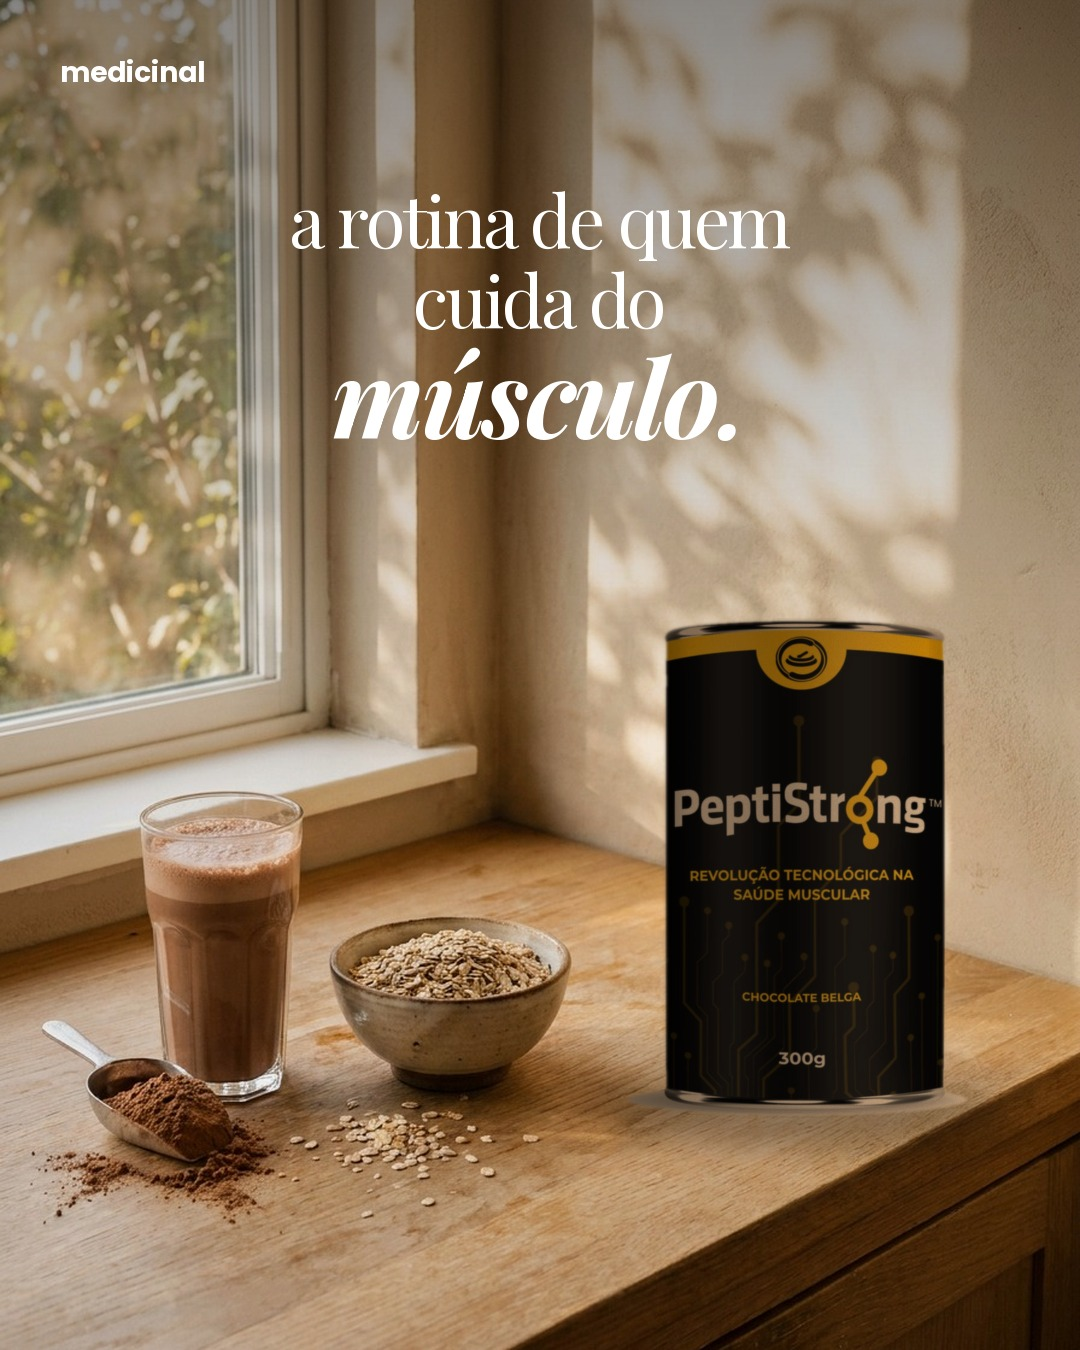
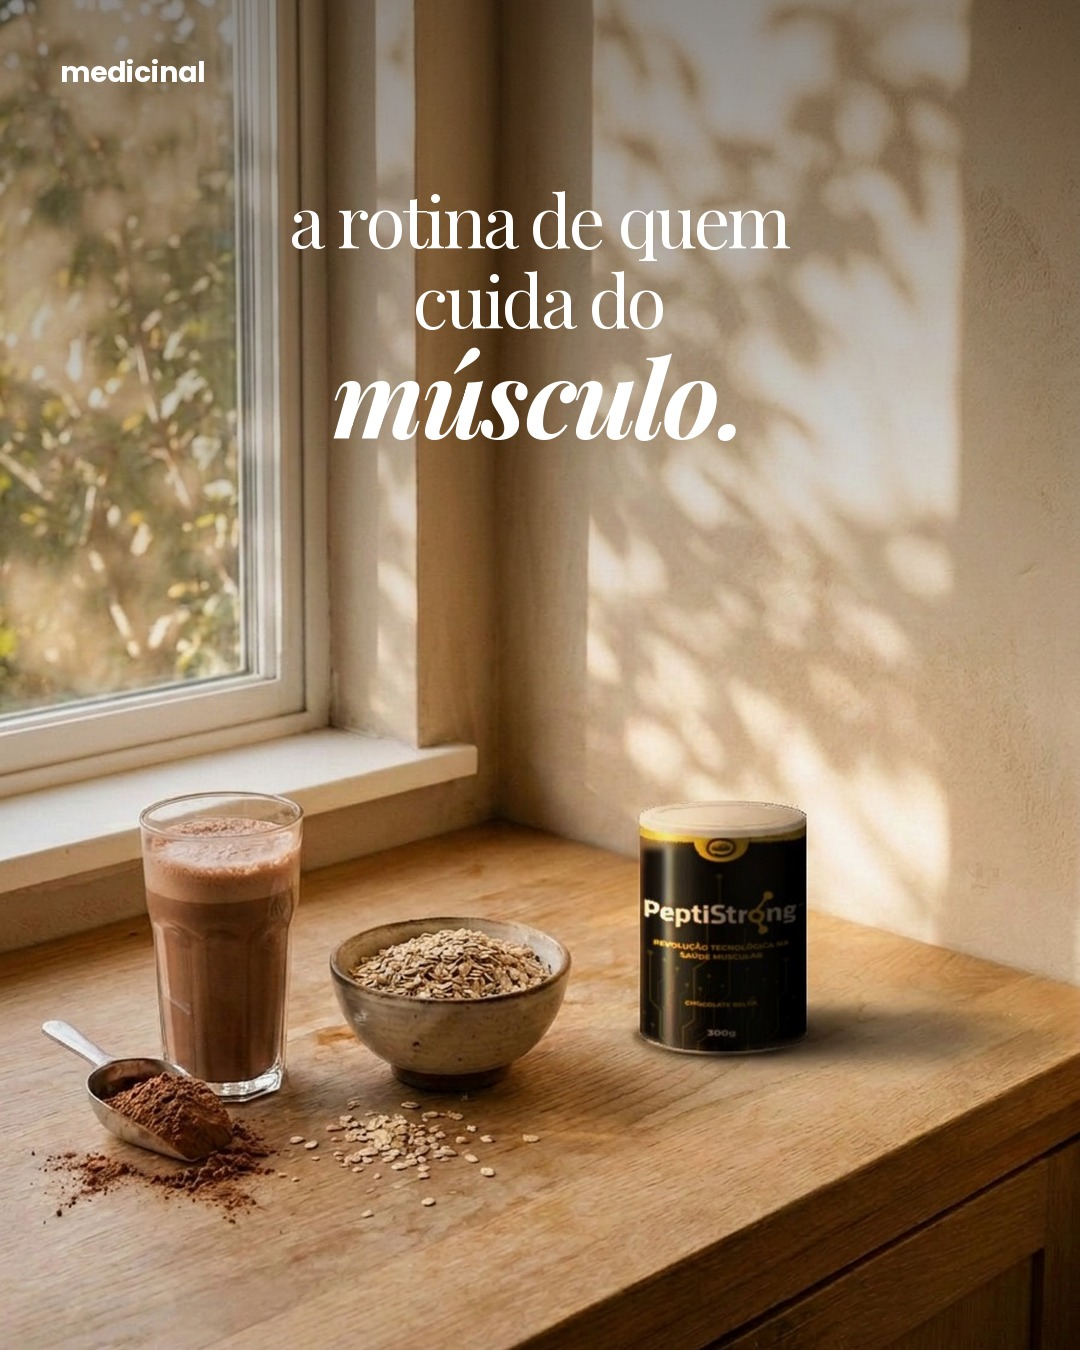
Inserção de produto natural: proporção real, harmonização por IA e rótulo original; linha editorial provocativa
Claude-Session: https://claude.ai/code/session_01Bm6rABw341qEUcQn2o9EUx

diff --git a/grade/insere_produto.py b/grade/insere_produto.py
@@ -1,0 +1,116 @@
+"""Insere a foto real de um produto (fundo branco) numa cena, com cuidado de naturalidade.
+
+Regra do padrão (docs/09-padrao-visual.md, seção 12): escala coerente com objetos vizinhos,
+perspectiva da câmera da cena (tampa e base em elipse), luz da cena sobre o produto
+(direção, cor e manchas de luz), sombra de contato e sombra projetada, mesma nitidez e grão.
+"""
+from PIL import Image, ImageDraw, ImageFilter, ImageEnhance, ImageChops
+import math
+
+def recorta(path, escuro=110):
+    """Recorta só o corpo do produto (tira fundo, sombra de chão e aros do mockup)."""
+    p = Image.open(path).convert('RGB'); g = p.convert('L'); W, H = g.size
+    px = g.load()
+    cols = [x for x in range(W) if sum(1 for y in range(0, H, 4) if px[x, y] < escuro) > (H / 4) * 0.35]
+    x0, x1 = min(cols), max(cols)
+    rows = [y for y in range(H) if sum(1 for x in range(x0, x1, 3) if px[x, y] < escuro) > ((x1 - x0) / 3) * 0.55]
+    y0, y1 = min(rows), max(rows)
+    # inclui a faixa colorida do topo (não é escura): sobe até encontrar o aro claro
+    while y0 > 0 and sum(1 for x in range(x0, x1, 3) if px[x, y0 - 1] < 235) > ((x1 - x0) / 3) * 0.9: y0 -= 1
+    m = 3; corpo = p.crop((x0 + m, y0 + m, x1 - m, y1 - m))
+    out = corpo.convert('RGBA'); return out
+
+def insere(cena, produto_png, base_centro, altura, largura=None, elipse=0.15, luz_x=0.25, cor_luz=(255, 222, 186),
+           sombra_dir=(0.55, -0.30), cor_tampa=(232, 226, 214)):
+    """cena: Image RGB. base_centro: (x, y) do centro da base na cena. altura: px do corpo.
+    elipse: razão altura/largura da boca do cilindro vista pela câmera (medir no copo/tigela da cena).
+    luz_x: posição (0-1) do brilho no cilindro (luz vindo da esquerda = valor baixo).
+    sombra_dir: deslocamento do topo da sombra projetada, em fração da altura (x, y)."""
+    can = recorta(produto_png) if isinstance(produto_png, str) else produto_png
+    # largura: use a proporção da embalagem REAL (medida em foto), não a do mockup
+    w = largura or int(can.width * altura / can.height); can = can.resize((w, altura), Image.LANCZOS)
+    e = max(2, int(w * elipse / 2))  # semi-eixo menor da elipse
+    rgb = can.convert('RGB'); a = can.split()[3]
+    # 1) sombreamento cilíndrico com a luz da cena
+    prof = Image.new('L', (w, 1))
+    for x in range(w):
+        u = x / (w - 1)
+        v = 0.50 + 0.62 * math.exp(-((u - luz_x) / 0.24) ** 2) - 0.18 * u
+        prof.putpixel((x, 0), max(0, min(255, int(v * 200))))
+    prof = prof.resize((w, altura))
+    rgb = ImageChops.multiply(rgb, Image.merge('RGB', [prof] * 3)); rgb = ImageEnhance.Brightness(rgb).enhance(1.25)
+    rgb = ImageChops.multiply(rgb, Image.new('RGB', rgb.size, cor_luz))
+    # brilho especular fino (embalagem plástica/metal)
+    esp = Image.new('L', (w, 1))
+    for x in range(w):
+        u = x / (w - 1); esp.putpixel((x, 0), int(95 * math.exp(-((u - luz_x + 0.05) / 0.025) ** 2)))
+    esp = esp.resize((w, altura)).filter(ImageFilter.GaussianBlur(2))
+    rgb = ImageChops.add(rgb, Image.merge('RGB', [esp] * 3))
+    # 2) curva do cilindro: topo e base viram arcos de elipse
+    saia = max(3, int(altura * 0.035))
+    H2 = altura + 2 * e + saia
+    body = Image.new('RGBA', (w, H2), (0, 0, 0, 0)); src = rgb.convert('RGBA'); src.putalpha(a)
+    for x in range(w):
+        u = 2 * x / (w - 1) - 1; dy = int(round(e * math.sqrt(max(0, 1 - u * u))))
+        body.paste(src.crop((x, 0, x + 1, altura)), (x, e + saia + dy))
+    # 3) tampa em elipse (vista de cima)
+    tampa = Image.new('RGBA', (w, H2), (0, 0, 0, 0)); td = ImageDraw.Draw(tampa)
+    escura = tuple(int(c * 0.80) for c in cor_tampa) + (255,)
+    td.rectangle((0, e, w - 1, e + saia), fill=escura); td.ellipse((0, saia, w - 1, 2 * e + saia), fill=escura)
+    td.ellipse((0, 0, w - 1, 2 * e), fill=cor_tampa + (255,))
+    td.ellipse((int(w * 0.06), int(e * 0.18), int(w * 0.94), int(2 * e - e * 0.18)), outline=tuple(int(c * 0.86) for c in cor_tampa) + (255,), width=max(1, w // 120))
+    gt = Image.linear_gradient('L').rotate(90).resize((w, H2))  # tampa mais clara do lado da luz
+    tampa_rgb = ImageChops.multiply(tampa.convert('RGB'), Image.merge('RGB', [gt.point(lambda v: 255 - v // 3)] * 3))
+    tampa_rgb = ImageChops.multiply(tampa_rgb, Image.new('RGB', tampa_rgb.size, cor_luz)); tampa_rgb = ImageEnhance.Brightness(tampa_rgb).enhance(1.12)
+    tt = tampa_rgb.convert('RGBA'); tt.putalpha(tampa.split()[3])
+    obj = Image.alpha_composite(body, tt)
+    ox = int(base_centro[0] - w / 2); oy = int(base_centro[1] - (altura + e + saia))  # base: ponto mais baixo do arco
+    cena = cena.convert('RGB').copy()
+    # 4) manchas de luz da cena (sombra de folhas etc.) sobre o produto
+    reg = cena.crop((ox, oy, ox + w, oy + H2)).convert('L').filter(ImageFilter.GaussianBlur(6))
+    st = reg.resize((1, 1), Image.BOX).getpixel((0, 0)) or 1
+    mod = reg.point(lambda v: max(0, min(255, int(255 * min(1.35, (v / st) ** 0.7) / 1.35))))
+    orgb = ImageChops.multiply(obj.convert('RGB'), Image.merge('RGB', [mod] * 3)); orgb = ImageEnhance.Brightness(orgb).enhance(1.3)
+    obj2 = orgb.convert('RGBA'); obj2.putalpha(obj.split()[3])
+    # 5) sombras: contato (oclusão) + projetada, deslocada para o lado oposto à luz
+    camada = Image.new('L', cena.size, 0); cdw = ImageDraw.Draw(camada)
+    bx0, bx1, by = ox, ox + w, oy + H2 - e
+    dx, dy = sombra_dir[0] * altura, sombra_dir[1] * altura
+    cdw.polygon([(bx0, by), (bx1, by), (bx1 + dx, by + dy), (bx0 + dx + w * 0.15, by + dy)], fill=150)
+    camada = camada.filter(ImageFilter.GaussianBlur(max(8, w // 10)))
+    contato = Image.new('L', cena.size, 0); cd = ImageDraw.Draw(contato)
+    cd.ellipse((ox - w * 0.02, oy + H2 - 2 * e - 2, ox + w * 1.02, oy + H2 + 4), fill=210)
+    contato = contato.filter(ImageFilter.GaussianBlur(max(3, w // 45)))
+    somb = ImageChops.lighter(camada, contato)
+    escuro = ImageEnhance.Brightness(cena).enhance(0.38)
+    escuro = ImageChops.multiply(escuro, Image.new('RGB', cena.size, (255, 235, 220)))
+    cena = Image.composite(escuro, cena, somb)
+    # 6) light wrap: borda do produto pega um pouco da cor do fundo
+    fundo = cena.crop((ox, oy, ox + w, oy + H2)).filter(ImageFilter.GaussianBlur(10))
+    borda = ImageChops.subtract(obj2.split()[3], obj2.split()[3].filter(ImageFilter.MinFilter(7))).filter(ImageFilter.GaussianBlur(2))
+    o_rgb = Image.composite(Image.blend(obj2.convert('RGB'), fundo, 0.45), obj2.convert('RGB'), borda)
+    # 7) mesma nitidez e grão da cena
+    o_rgb = o_rgb.filter(ImageFilter.GaussianBlur(0.7))
+    n = Image.effect_noise(o_rgb.size, 24).convert('RGB'); o_rgb = Image.blend(o_rgb, ImageChops.add(o_rgb, n, 2, -128), 0.16)
+    fin = o_rgb.convert('RGBA'); fin.putalpha(obj2.split()[3])
+    out = cena.convert('RGBA'); out.alpha_composite(fin, (ox, oy)); return out.convert('RGB')
+
+
+def recoloca_rotulo(cena_original, montagem, harmonizada, caixa_corpo, raio_luz=4):
+    """Depois da harmonização por IA: devolve o rótulo ORIGINAL (da montagem), iluminado pela luz da IA.
+
+    A IA acerta luz, tampa e sombras, mas costuma estragar texto de rótulo. Aqui o corpo do produto
+    vem da montagem (texto fiel) multiplicado pela razão de luz IA/montagem (desfocada), e o resto
+    da imagem vem da IA. caixa_corpo = (x0, y0, x1, y1) do rótulo na cena, sem a tampa.
+    Conferir antes se a IA não moveu o produto (correlação de bordas)."""
+    import numpy as np
+    C = np.asarray(cena_original.convert('RGB')).astype(float)
+    M = np.asarray(montagem.convert('RGB')).astype(float); A = np.asarray(harmonizada.convert('RGB')).astype(float)
+    x0, y0, x1, y1 = caixa_corpo
+    m = np.zeros(M.shape[:2], bool); m[y0:y1, x0:x1] = True; m &= (np.abs(M - C).sum(2) > 40)
+    mk = Image.fromarray((m * 255).astype(np.uint8)).filter(ImageFilter.MinFilter(5)).filter(ImageFilter.GaussianBlur(2.5))
+    k = np.asarray(mk).astype(float)[..., None] / 255
+    bl = lambda im: np.asarray(im.convert('RGB').filter(ImageFilter.GaussianBlur(raio_luz))).astype(float) + 4
+    R = np.clip(bl(harmonizada) / bl(montagem), 0.45, 2.2)
+    rot = np.clip(M * R, 0, 255) * 0.88 + A * 0.12
+    return Image.fromarray((A * (1 - k) + rot * k).astype(np.uint8))

diff --git a/grade/teste-padrao-2025/monta.py b/grade/teste-padrao-2025/monta.py
@@ -49,19 +49,8 @@ im=grad(bg(plank,0.85,0.5),True,140); d=ImageDraw.Draw(im); logo(d,True)
 for i,t in enumerate(['Por que a massa muscular','merece atenção depois dos 40?']):
   f=mono(38); w=d.textlength(t,font=f); x=(1080-w)/2; y=170+i*56; d.text((x,y),t,font=f,fill='white'); d.line((x,y+48,x+w,y+48),fill='white',width=2)
 ctext(d,300,'PRESERVAÇÃO',caps(66),sp=9); ctext(d,380,'MUSCULAR',caps(66),sp=9); arts.append(('C-pergunta',im))
-# D produto real na cena
-im=bg(kitchen,0.95,0.5); can=cutout(R+'peptistrong.jpg'); h=500; can=can.resize((int(can.width*h/can.height),h),Image.LANCZOS)
-sh=Image.new('RGBA',im.size,(0,0,0,0)); sd=ImageDraw.Draw(sh); x0=1080-can.width-110; y0=1350-h-232
-sd.ellipse((x0-10,y0+h-30,x0+can.width+40,y0+h+25),fill=(40,25,15,110)); sh=sh.filter(ImageFilter.GaussianBlur(18))
-a=can.split()[3].filter(ImageFilter.MinFilter(3)).filter(ImageFilter.GaussianBlur(1.2))
-rgb=can.convert('RGB').filter(ImageFilter.GaussianBlur(0.6))
-rgb=ImageEnhance.Brightness(rgb).enhance(0.82); rgb=ImageEnhance.Contrast(rgb).enhance(0.9)
-warm=Image.new('RGB',rgb.size,(255,214,170)); rgb=ImageChops.multiply(rgb,warm)
-lx=Image.linear_gradient('L').rotate(90).resize(rgb.size)  # luz da janela pela esquerda
-rgb=Image.composite(ImageEnhance.Brightness(rgb).enhance(1.25),ImageEnhance.Brightness(rgb).enhance(0.75),lx)
-n=Image.effect_noise(rgb.size,22).convert('RGB'); rgb=Image.blend(rgb,ImageChops.add(rgb,n,2,-128),0.18)
-can=rgb.convert('RGBA'); can.putalpha(a)
-im=Image.alpha_composite(im.convert('RGBA'),sh); im.alpha_composite(can,(x0,y0)); im=im.convert('RGB'); im=grad(im,True,120); d=ImageDraw.Draw(im); logo(d)
+# D produto real na cena: ia/cozinha_final.jpg = montagem (../insere_produto.py) + harmonização por IA + rótulo original recolocado
+im=grad(bg(os.path.join(D,'ia','cozinha_final.jpg'),0.97,0.5),True,120); d=ImageDraw.Draw(im); logo(d)
 ctext(d,170,'a rotina de quem',serif(72),sp=-3); ctext(d,250,'cuida do',serif(72),sp=-3); ctext(d,322,'músculo.',ital(108),sp=-3); arts.append(('D-produto',im))
 # E numero marinho
 im=Image.new('RGB',(1080,1350),NAVY); d=ImageDraw.Draw(im); logo(d,fill=OFF)

diff --git a/docs/09-padrao-visual.md b/docs/09-padrao-visual.md
@@ -133,4 +133,51 @@ Enquanto não há sessão de fotos nem rosto da marca, as imagens podem ser gera
 
 **Na grade:** imagem de IA não pode ocupar mais de 2 quadrados seguidos sem um post de texto (modelos E e F) ou um conteúdo real (evento, bastidor) no meio.
 
-**Custo:** 20 créditos do Runway por imagem (modelo padrão). Saldo em 08/11: 60. Vídeo gasta bem mais.
+**Custo:** 20 créditos do Runway por imagem ou edição (modelo padrão). Saldo em 08/11: 20. Vídeo gasta bem mais.
+
+## 12. Produto inserido em cena: naturalidade extrema (regra fixa)
+
+Pedido do Ricardo em 08/11/2026, depois do primeiro teste (lata de Peptistrong "colada" na cozinha). **Vale para toda arte que coloca a embalagem real dentro de outra imagem.** Se não ficar indistinguível de uma foto, a arte não sai.
+
+Checklist obrigatório:
+
+1. **Escala e proporção:** medir contra um objeto vizinho na mesma profundidade (copo, tigela, mão). A lata de Peptistrong 300 g é **mais baixa que um copo alto e mais ou menos da mesma largura**; largura ≈ 0,77 da altura (medido em foto real). **Não usar a proporção do mockup 3D** (`assets/peptistrong.jpg`), que é mais alto e fino que a lata de verdade.
+2. **Perspectiva:** a câmera da cena define o ângulo. Se a boca do copo aparece como elipse, a tampa e a base da embalagem também aparecem como elipse, na mesma proporção. Mockup de frente em cena vista de cima não serve.
+3. **Luz:** mesma direção, cor e dureza da luz da cena. Lado da janela mais claro, lado oposto na sombra, brilho fino na superfície. Se a cena tem manchas de luz (sombra de folhas), elas passam por cima do produto.
+4. **Sombras:** sombra de contato escura onde a embalagem toca a superfície e sombra projetada para o lado oposto à luz, com a mesma suavidade das sombras dos outros objetos.
+5. **Integração:** mesma nitidez/desfoque do plano onde está, mesmo grão, borda sem halo branco, leve reflexo da cor do ambiente na embalagem.
+6. **Rótulo intacto:** nome, logo, textos e cores iguais aos da embalagem oficial. Conferir letra por letra se passar por IA.
+7. **Posição com sentido:** a embalagem fica onde alguém a deixaria (ao lado do copo, perto da mão), de preferência parcialmente encoberta por outro objeto ou com outro objeto à frente.
+
+Como fazer, em ordem de preferência:
+
+1. **Foto real** da embalagem tirada no mesmo tipo de luz da cena (celular, luz de janela). É o melhor resultado e não custa nada.
+2. **Montagem + harmonização + rótulo original**: montar com `grade/insere_produto.py` (`insere`: escala, perspectiva em elipse, tampa, luz, sombras, grão), harmonizar no Runway e depois `recoloca_rotulo` (a IA acerta luz e sombra mas **estraga o texto do rótulo**; a função devolve o rótulo original com a luz da IA). Exemplo em `grade/teste-padrao-2025/LEIA-ME.md`.
+3. Gerar a cena **já com espaço e luz pensados** para o produto (superfície plana, objeto de escala ao lado, luz lateral definida).
+
+A imagem 3D do fabricante (`grade/assets/peptistrong.jpg`) é o pior ponto de partida: é render, não foto. Pedir à loja fotos de celular das embalagens principais (Peptistrong, PeptiPump, Keranat, Maxsolve) em luz de janela.
+
+## 13. Linha editorial: temas que provocam
+
+Pedido do Ricardo em 08/11/2026: **polemizar os temas.** O gancho tem que mexer com a pessoa, contrariar o senso comum ou apontar algo que ela não percebeu.
+
+**Temas foco:**
+
+| Tema | Peso | Exemplos de gancho |
+|---|---|---|
+| **Queda de cabelo** | **foco principal** | "Seu cabelo não está caindo à toa." · "Shampoo não resolve o que começa por dentro." · "Queda de cabelo depois do verão: normal ou sinal?" |
+| **Perda de massa magra** | alto | "Você está perdendo músculo e nem percebe." · "Depois dos 30, o músculo vai embora em silêncio." · "Emagrecer rápido pode estar custando o seu músculo." |
+| **Falta de zinco** | médio | "O mineral que quase ninguém lembra e que o cabelo, a pele e a imunidade cobram." · "Unha fraca, cabelo caindo, feridas que demoram: já ouviu falar de zinco?" |
+| **Visão** | médio | "Tela o dia inteiro: o que seus olhos estão pagando?" |
+
+**Formatos que polemizam bem (de 2025):** "hype ou realidade?", "mito ou verdade", "o que ninguém te conta sobre…", comparação (Whey x Peptistrong), número grande (modelo E), pergunta-gancho (modelo C).
+
+**Limites (regra 4, sem exceção):**
+
+- Polemizar o **tema**, nunca prometer o **resultado**. "Seu cabelo não está caindo à toa" pode; "Keranat acaba com a queda" não.
+- Sem assustar com doença nem induzir autodiagnóstico: o fechamento leva a pessoa para **orientação profissional** ("investigue com seu médico", "fale com a farmacêutica").
+- Dado sempre com fonte na legenda.
+- Sem atacar concorrente, medicamento ou profissão (o "Canetinha x Akkermat" de 2024 não se repete).
+- **Minoxidil** e qualquer medicamento sob prescrição: só como tema educativo, nunca como oferta.
+- Visão: sem prometer melhora da vista; falar de cuidado, hábito e acompanhamento oftalmológico.
+- Suplemento ou manipulado citado: revisão farmacêutica antes de aprovar.

diff --git a/CONTEXTO.md b/CONTEXTO.md
@@ -37,7 +37,7 @@ Este arquivo resume a conversa de 22/10 a 08/11/2026 que levou ao projeto. Leia 
 - **Meta Ads:** acesso validado. Nada anunciado ainda.
 - **Grade:** 18 posts espelhados (publicados) e 24 blocos da semana 09–15/11 em **Rascunho**, com fotos do Runway e identidade azul-marinho.
 - **Publicação automática:** rotina `grade-publicacao` (de hora em hora, 8h–22h) publica blocos **Aprovado** com data/hora vencidos. **Está sem o conector n8n**: precisa ser adicionado em claude.ai → Rotinas, senão não publica nada.
-- **Vídeo:** botão "Gerar vídeo no Runway" no editor. Ainda não foi testado. Saldo do Runway: 60 créditos em 08/11 (imagem custa 20; vídeo gasta bem mais).
+- **Vídeo:** botão "Gerar vídeo no Runway" no editor. Ainda não foi testado. Saldo do Runway: **20 créditos** em 08/11 (imagem ou edição custa 20; vídeo gasta bem mais). Precisa recarregar para produzir a semana.
 - **Canva:** créditos de IA acabaram em 07/11. O botão "Gerar imagem no Canva" falha até renovar.
 
 ## Pendências
@@ -58,7 +58,8 @@ Este arquivo resume a conversa de 22/10 a 08/11/2026 que levou ao projeto. Leia 
 
 - **Padrão visual proposto** (base 2º semestre de 2025 + marinho `#102140`): `docs/09-padrao-visual.md`. Fontes gratuitas em `grade/assets/fonts/` (Playfair Display, Poppins, IBM Plex Mono, Archivo Black).
 - **Decisão de 08/11:** sem rosto da marca e sem sessão de fotos por ora, as imagens serão geradas por IA, com as regras da seção 11 do padrão. Automação "comente PALAVRA" (ManyChat) fica para depois.
-- **Teste do padrão com IA** (5 artes): `grade/teste-padrao-2025/`. Aguardando opinião do Ricardo.
+- **Teste do padrão com IA** (5 artes): `grade/teste-padrao-2025/`. Ricardo aprovou a direção; pediu naturalidade extrema ao inserir produto em cena (seção 12 do padrão).
+- **Linha editorial (08/11):** polemizar os temas; **queda de cabelo é o foco**, depois perda de massa magra, falta de zinco e visão (seção 13 do padrão, com os limites de saúde).
 
 ## Decisões tomadas
 

diff --git a/grade/teste-padrao-2025/LEIA-ME.md b/grade/teste-padrao-2025/LEIA-ME.md
@@ -7,7 +7,7 @@ Aplicação do `docs/09-padrao-visual.md` sobre 4 imagens geradas no Runway (pas
 | `A-frase.jpg` | A · Frase de marca | IA: cápsula entre os dedos |
 | `B-radar.jpg` | B · Série Radar Magistral (PeptiPump) | IA: lentilha saindo do saco de linho |
 | `C-pergunta.jpg` | C · Pergunta-gancho | IA: mulher em prancha, sem rosto |
-| `D-produto.jpg` | A · Frase + produto real montado na cena | IA: bancada de cozinha + lata real |
+| `D-produto.jpg` | A · Frase + produto real montado na cena | IA: bancada de cozinha + lata real (ver abaixo) |
 | `E-numero.jpg` | E · Número em marinho | sem imagem |
 | `grade-teste.jpg` | como as 5 ficam na grade do perfil | |
 
@@ -18,4 +18,13 @@ Gerar de novo: `python3 monta.py` (usa as fontes de `../assets/fonts/`).
 Pendências antes de usar de verdade:
 - O dado "3–8% a menos por década depois dos 30" precisa de fonte citada na legenda e revisão farmacêutica.
 - Posts com pessoa realista de IA (C) levam o rótulo "Informações de IA" no Instagram.
-- Custo: 20 créditos do Runway por imagem. Saldo após o teste: 60.
+- Custo: 20 créditos do Runway por imagem ou harmonização. Saldo após o teste: **20**.
+
+## Como a lata entrou na cena (D)
+
+1ª versão reprovada pelo Ricardo: lata "colada", grande demais, sem perspectiva. Processo que passou:
+
+1. `ia/cozinha.jpg`: cena gerada.
+2. `ia/cozinha_com_produto.jpg`: montagem com `../insere_produto.py` (`insere`), com a **proporção da lata real** (largura ≈ 0,77 da altura, medida nas fotos reais de 2025; o mockup 3D é mais alto e fino), altura menor que a do copo, mais ao fundo, tampa e base em elipse, luz e sombras.
+3. `ia/cozinha_harmonizada.jpg`: harmonização no Runway (luz, tampa, sombra, reflexos). **A IA estragou o texto do rótulo** ("TEENOUÓSICA", "COCOOLAIS").
+4. `ia/cozinha_final.jpg`: `recoloca_rotulo` devolve o rótulo original iluminado pela luz da IA. Texto conferido.
